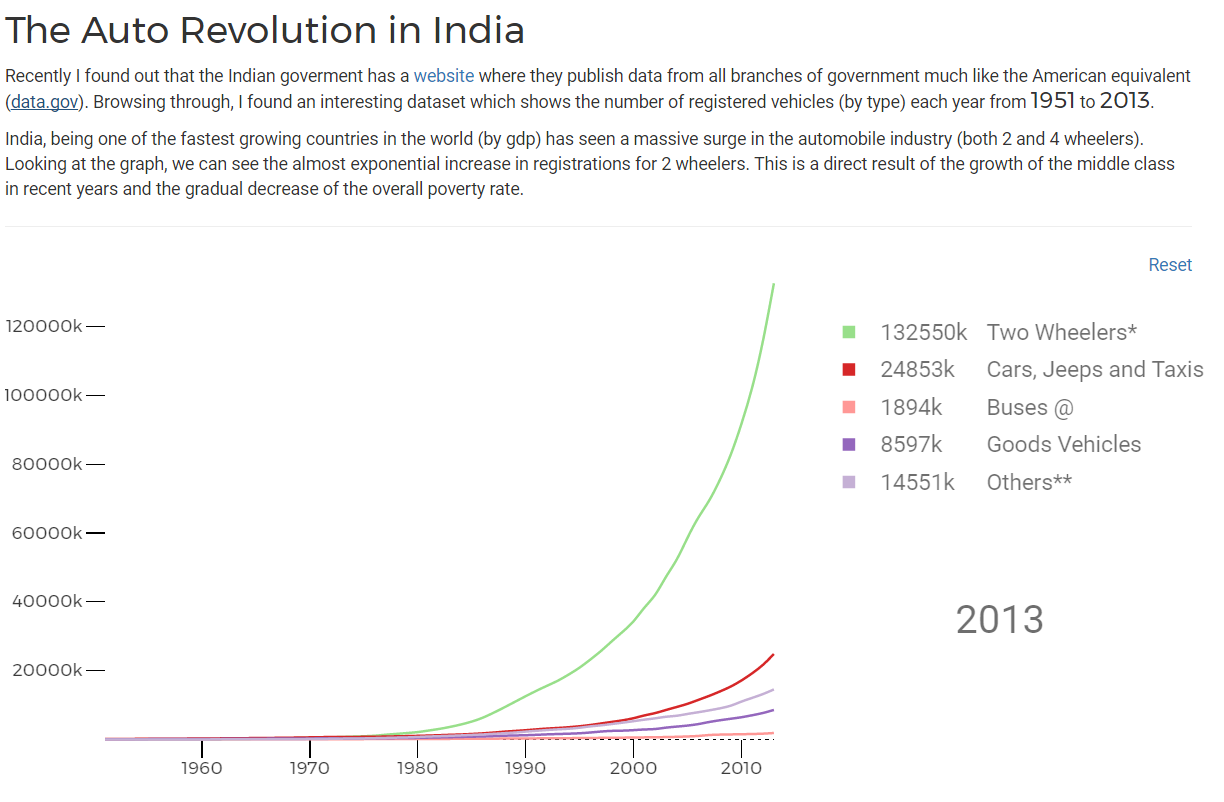
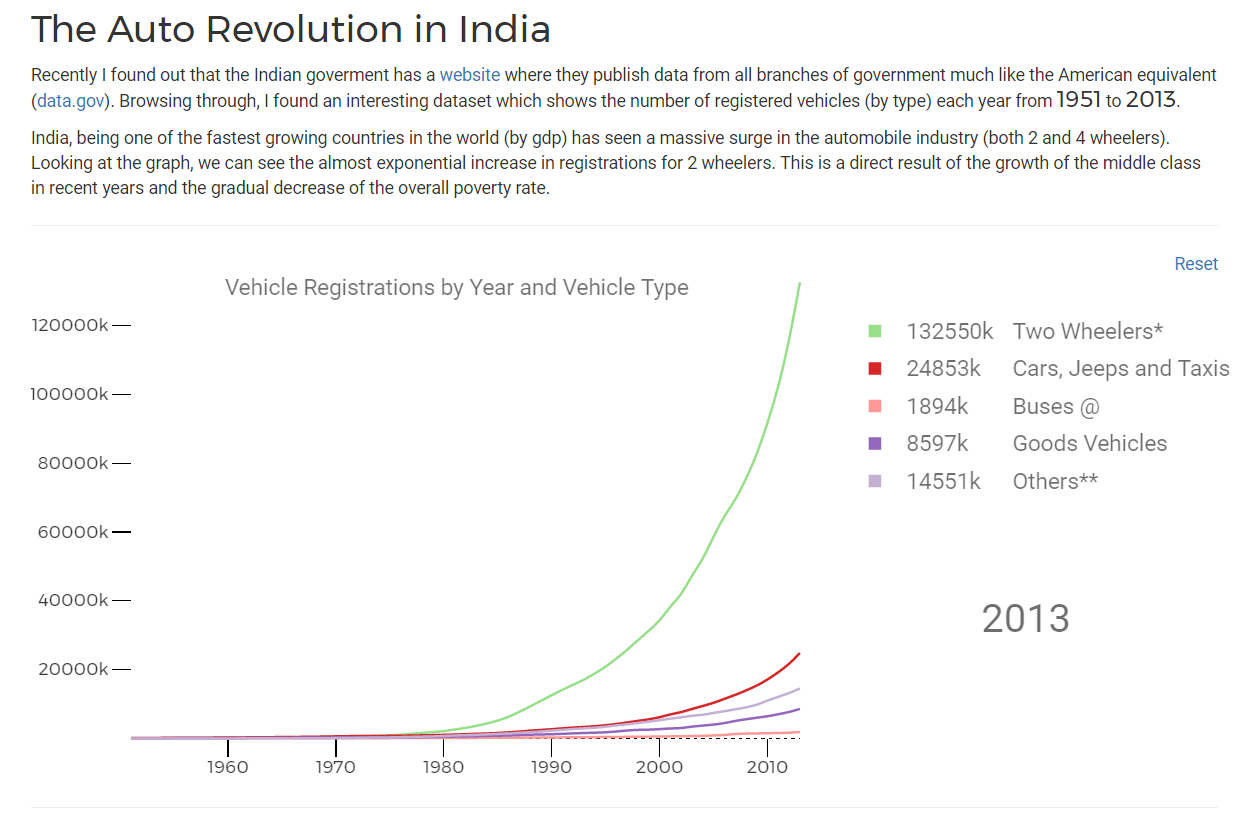
updates

diff --git a/proj/indrmv.html b/proj/indrmv.html
@@ -55,6 +55,12 @@
             fill: black;
             opacity: 0.57;
         }
+
+        .title{
+            font-size: 18px;
+            color: black;
+            opacity: 0.57;
+        }
     </style>
 
 </head>
@@ -307,8 +313,6 @@
                   .attr("x", 370)
                   .attr("y", function (d, i) { return (i + 1) * 30; })
                   .text(function (d, i) {
-                      //console.log(d[d.name]);
-                      //return lastArr[i];
                       return "0"
                   });
 
@@ -319,6 +323,14 @@
                 .attr("x", 680)
                 .attr("y", 280)
                 .text(1951);
+
+
+            //Append Title
+            svg.append("text")
+                .attr("class", "title")
+                .attr("x", 75)
+                .attr("y", 10)
+                .text("Vehicle Registrations by Year and Vehicle Type");
 
 
             //call interpolate on all count strings
